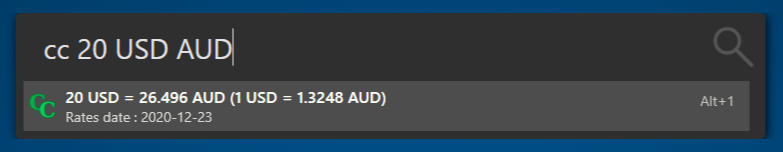
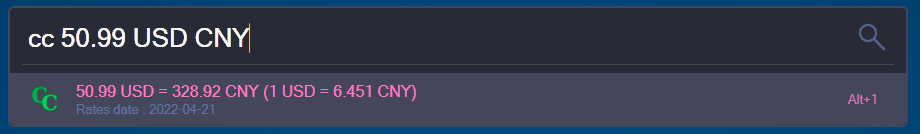
Update README and screenshot

Changed region(s): [[0.0, 0.0299, 1.0, 0.9552]]

diff --git a/plugin/currency_converter.py b/plugin/currency_converter.py
@@ -50,6 +50,7 @@ class Currency(Flox):
         "TRY",
         "USD",
         "ZAR",
+        "XXX",
         "EUR",
     ]
 

diff --git a/README.md b/README.md
@@ -10,37 +10,28 @@ Uses the [European Central Bank](https://www.ecb.europa.eu/stats/policy_and_exch
 
 Currency code that can be used are:
 
-'AUD' , 'BGN' , 'BRL' , 'CAD' , 'CHF' , 'CNY' , 'CZK' , 'DKK' , 'GBP', 'HKD' , 'HRK' , 'HUF' , 'IDR' , 'ILS' , 'INR' , 'ISK' , 'JPY' , 'KRW', 'MXN','MYR' , 'NOK' , 'NZD' , 'PHP' , 'PLN' , 'RON' , 'RUB' , 'SEK', 'SGD' , 'THB' , 'TRY' , 'USD' , 'ZAR' , 'EUR'
+'AUD' , 'BGN' , 'BRL' , 'CAD' , 'CHF' , 'CNY' , 'CZK' , 'DKK' , 'GBP', 'HKD' , 'HRK' , 'HUF' , 'IDR' , 'ILS' , 'INR' , 'ISK' , 'JPY' , 'KRW', 'MXN', 'MYR' , 'NOK' , 'NZD' , 'PHP' , 'PLN' , 'RON' , 'RUB' , 'SEK', 'SGD' , 'THB' , 'TRY' , 'USD' , 'ZAR' , 'EUR'
 
 ### Requirements
 
-Python 3.5 or later installed on your system, with python.exe in your PATH variable and this path updated in the Flow Launcher settings (this is a general requirement to use Python plugins with Flow). As of v1.8, Flow Launcher should take care of the installation of Python for you if it is not on your system.
+Flow Launcher should take care of the installation of Python for you if it is not on your system, as well as the libraries needed by this plugin.
 
-You must be online when you run the plugin in Flow to download the currency XML file, or you will get a connection error. If the local XML file is 2 hours or less old (that is, you've run the plugin before in the previous two hours), it will just use the local file.
+You must be online when you run the plugin in Flow to download the currency XML file, or you will get a connection error. A local copy of the local XML file froma previous download can be used if it exists.
+
+### Plugin Settings
+
+Type `settings` in Flow to access the settings window, then go to Plugins - Currency Converter
+
+__Keyword (default 'cc')__ - change this to set a new keyword to activate the plugin
+
+__File age (default 6)__ - the age in hours for the local copy of the rates file to be used before the plugin downloads a fresh copy
+
 
 ### Installing
 
 #### Package Manager
 
 Use the `pm install` command from within Flow itself.
-
-#### Manual
-
-Add the Flow.Launcher.Plugin.Currency directory to %APPDATA%\Roaming\FlowLauncher\Plugins\ and restart Flow.
-
-#### Python Package Requirements
-
-There is no requirement to install the packages as they will be packed with the release. 
-
-If you still want to manually pip install them:
-
-The `requirements.txt` file in this repo outlines which packages are needed. This can be found online here on Github, as well as in the local plugin directory once installed (%APPDATA%\Roaming\FlowLauncher\Plugins\Currency Converter-X.X.X\ where X.X.X is the currently installed version)
-
-The easiest way to manually install these packages is to use the following command in a Windows Command Prompt or Powershell Prompt
-
-`pip install -r requirements.txt -t ./lib`
-
-Remember you need to be in the local directory containing the requirements text file.
 
 ### Localisation
 
@@ -51,6 +42,10 @@ Currently English and Chinese language supported. Edit the .env file to change t
 | Keyword                                                          | Description                                 |
 | ---------------------------------------------------------------- | ------------------------------------------- |
 | `cc {amount} {source currency code} {destination currency code}` | Convert amount from source to dest currency |
+
+When typing the source or destination currency the plugin will show what currencies are available.
+
+Decimal precision is based on the input amount however the base rate is always a minimum of three decimal places.
 
 ### Problems, errors and feature requests
 
